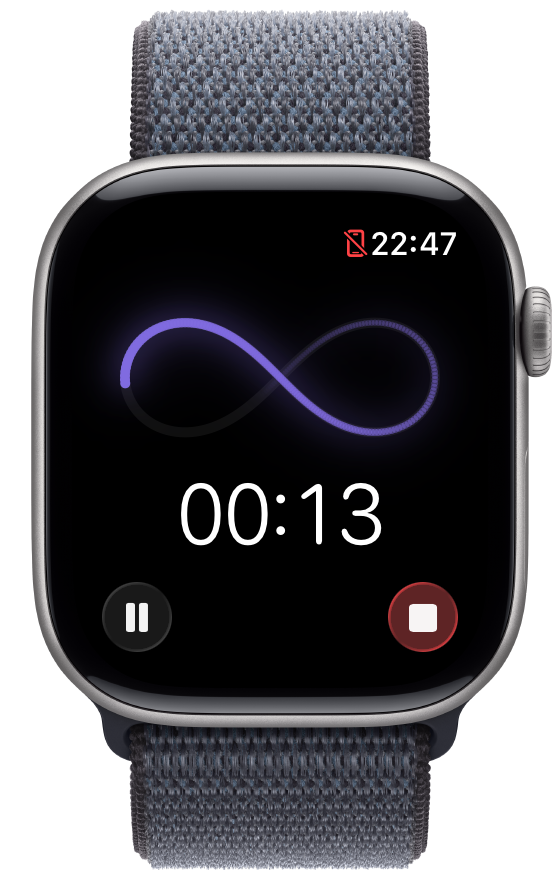
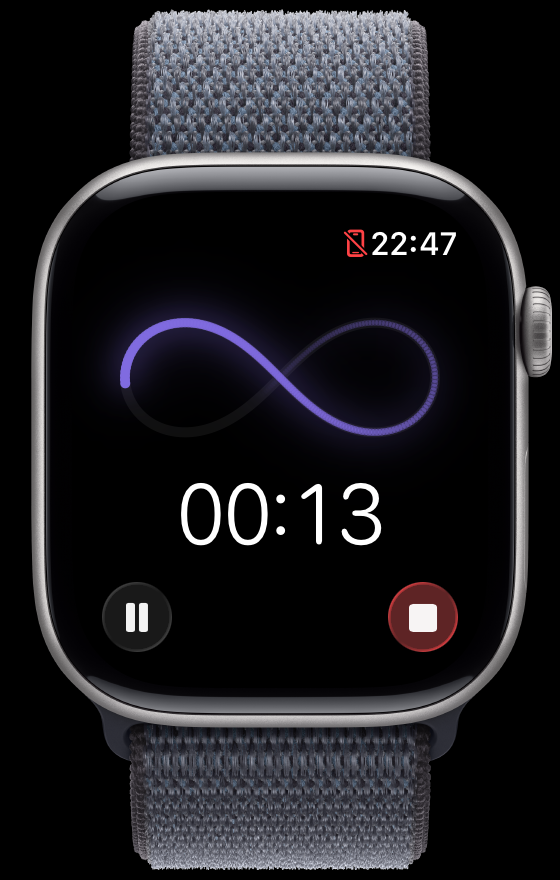
Flatten mockup images to pure black background

Changed region(s): [[0.0, 0.0, 1.0, 1.0]]

diff --git a/style.css b/style.css
@@ -236,8 +236,6 @@ body {
     width: 100%;
     height: auto;
     filter: drop-shadow(0 20px 60px rgba(128, 107, 224, 0.15));
-    mask-image: linear-gradient(to right, transparent 0%, black 8%, black 92%, transparent 100%);
-    -webkit-mask-image: linear-gradient(to right, transparent 0%, black 8%, black 92%, transparent 100%);
 }
 
 /* Privacy Section */
